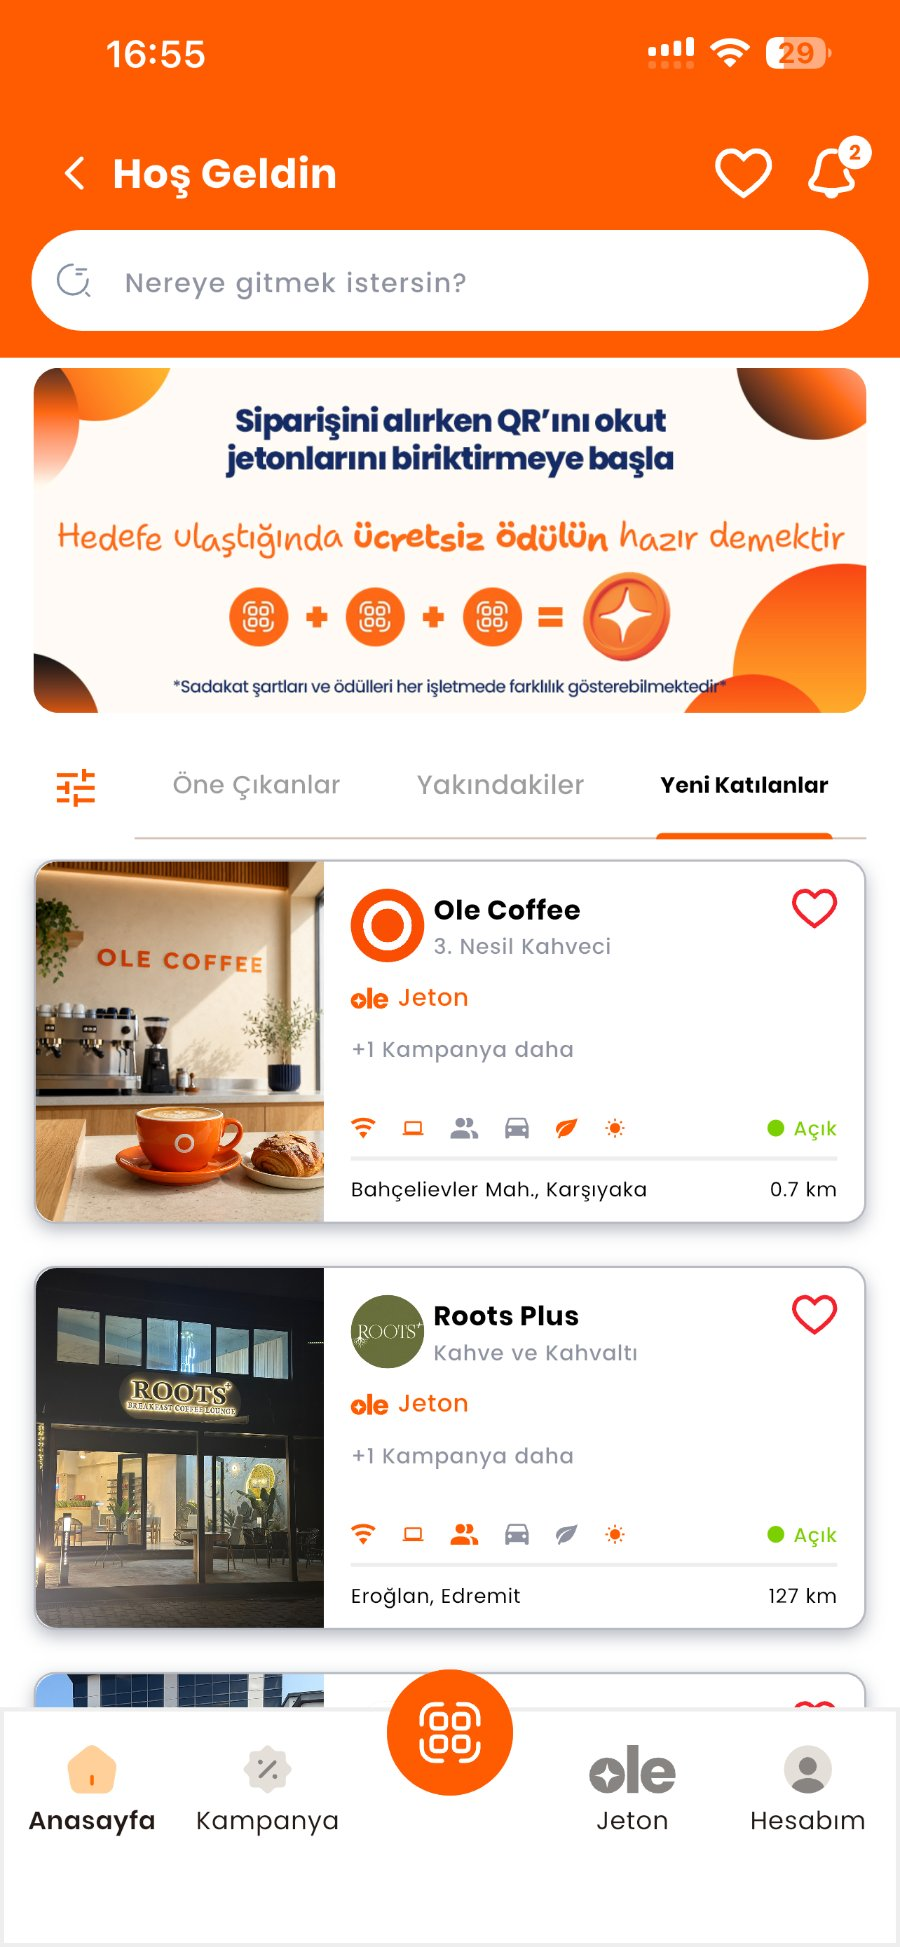
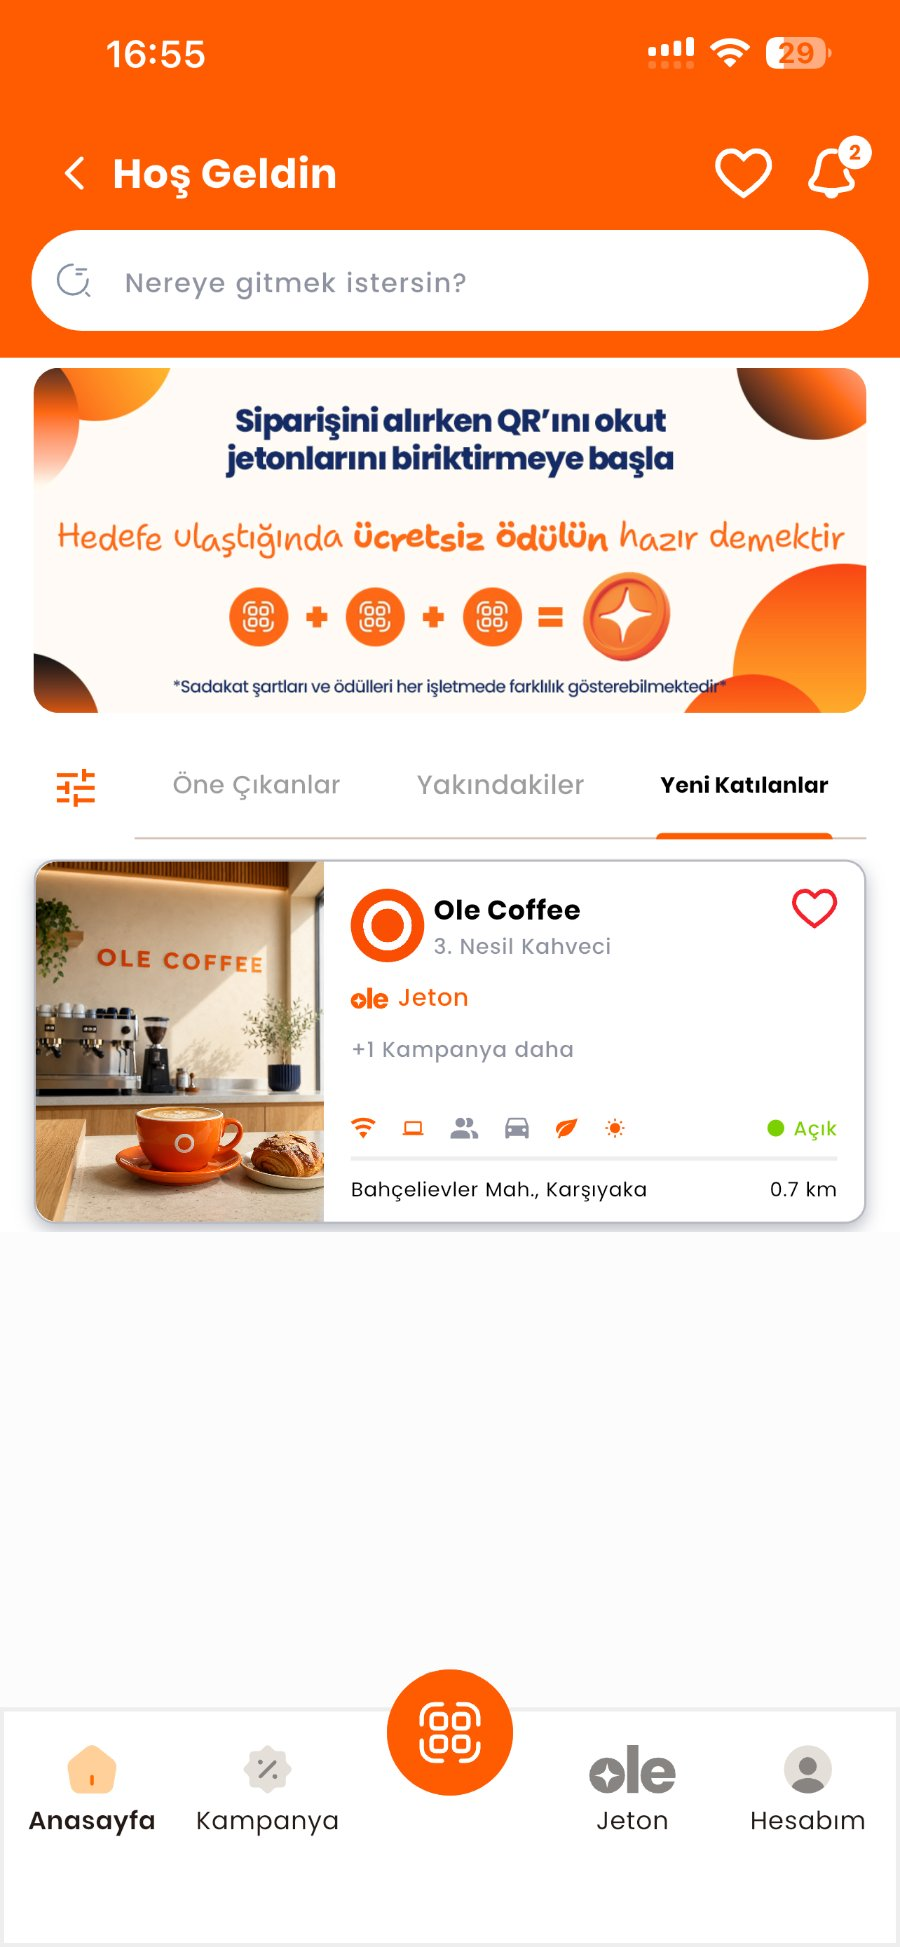
Remove the Roots Plus business card from the Ole home screen image
The site copy of the app home screen (web/screen-home.jpg) no longer shows
the "Roots Plus" listing; the QR tab button is kept intact. The original
screenshot is unchanged and stays unlinked.

Claude-Session: https://claude.ai/code/session_01LJUtQyYxXMAY4QVd8GHcUX

diff --git a/public/images/products/ole/README.md b/public/images/products/ole/README.md
@@ -6,7 +6,7 @@
 |---|---|
 | `ole-logo.png` | "ole" kelime markası |
 | `ole-glass-token-1.png`, `ole-glass-token-2.png` | 3B cam Ole jetonu |
-| `ole-home-page.PNG` | Uygulama ana ekranı |
+| `ole-home-page.PNG` | Uygulama ana ekranı ("Roots Plus" işletmesini içerir — sitede kullanılmaz) |
 | `ole-sadakat-sistemi.PNG` | Ödüller ekranı |
 | `ole-işletme-sayfası.PNG` | İşletme sayfası (maskot içerir — sitede kullanılmaz) |
 | `ole-bildirim.PNG` | "Seni Özledik" bildirimi (maskot içerir — sitede kullanılmaz) |
@@ -15,13 +15,13 @@
 ## `web/` — sitede kullanılan kopyalar
 
 Orijinallerden üretildi (macOS `sips` ya da tarayıcı canvas'ı; ek paket yok).
-Maskot, kişisel ad, gerçek görünümlü QR ve müşteri kodu bu kopyalarda yoktur.
+Maskot, kişisel ad, gerçek görünümlü QR, müşteri kodu ve Ole dışındaki işletmeler (ör. "Roots Plus") bu kopyalarda yoktur.
 
 | Dosya | Kaynak | İşlem |
 |---|---|---|
 | `token.webp` (640²) | `ole-glass-token-1.png` | Şeffaf WebP |
 | `logo.png` | `ole-logo.png` | Küçültülmüş eski kopya — artık kullanılmıyor |
-| `screen-home.jpg` (900×1947) | `ole-home-page.PNG` | Selamlamadaki kullanıcı adı kaldırıldı |
+| `screen-home.jpg` (900×1947) | `ole-home-page.PNG` | Selamlamadaki kullanıcı adı ve "Roots Plus" işletme kartı kaldırıldı |
 | `screen-loyalty.jpg` (900×1947) | `ole-sadakat-sistemi.PNG` | Küçültüldü |
 | `screen-business.jpg` (900×1947) | `ole-işletme-sayfası.PNG` | "Menü" kartındaki maskot kaldırıldı |
 | `screen-notification.jpg` (900×1947) | `ole-bildirim.PNG` | "Menü" kartındaki maskot kaldırıldı |
